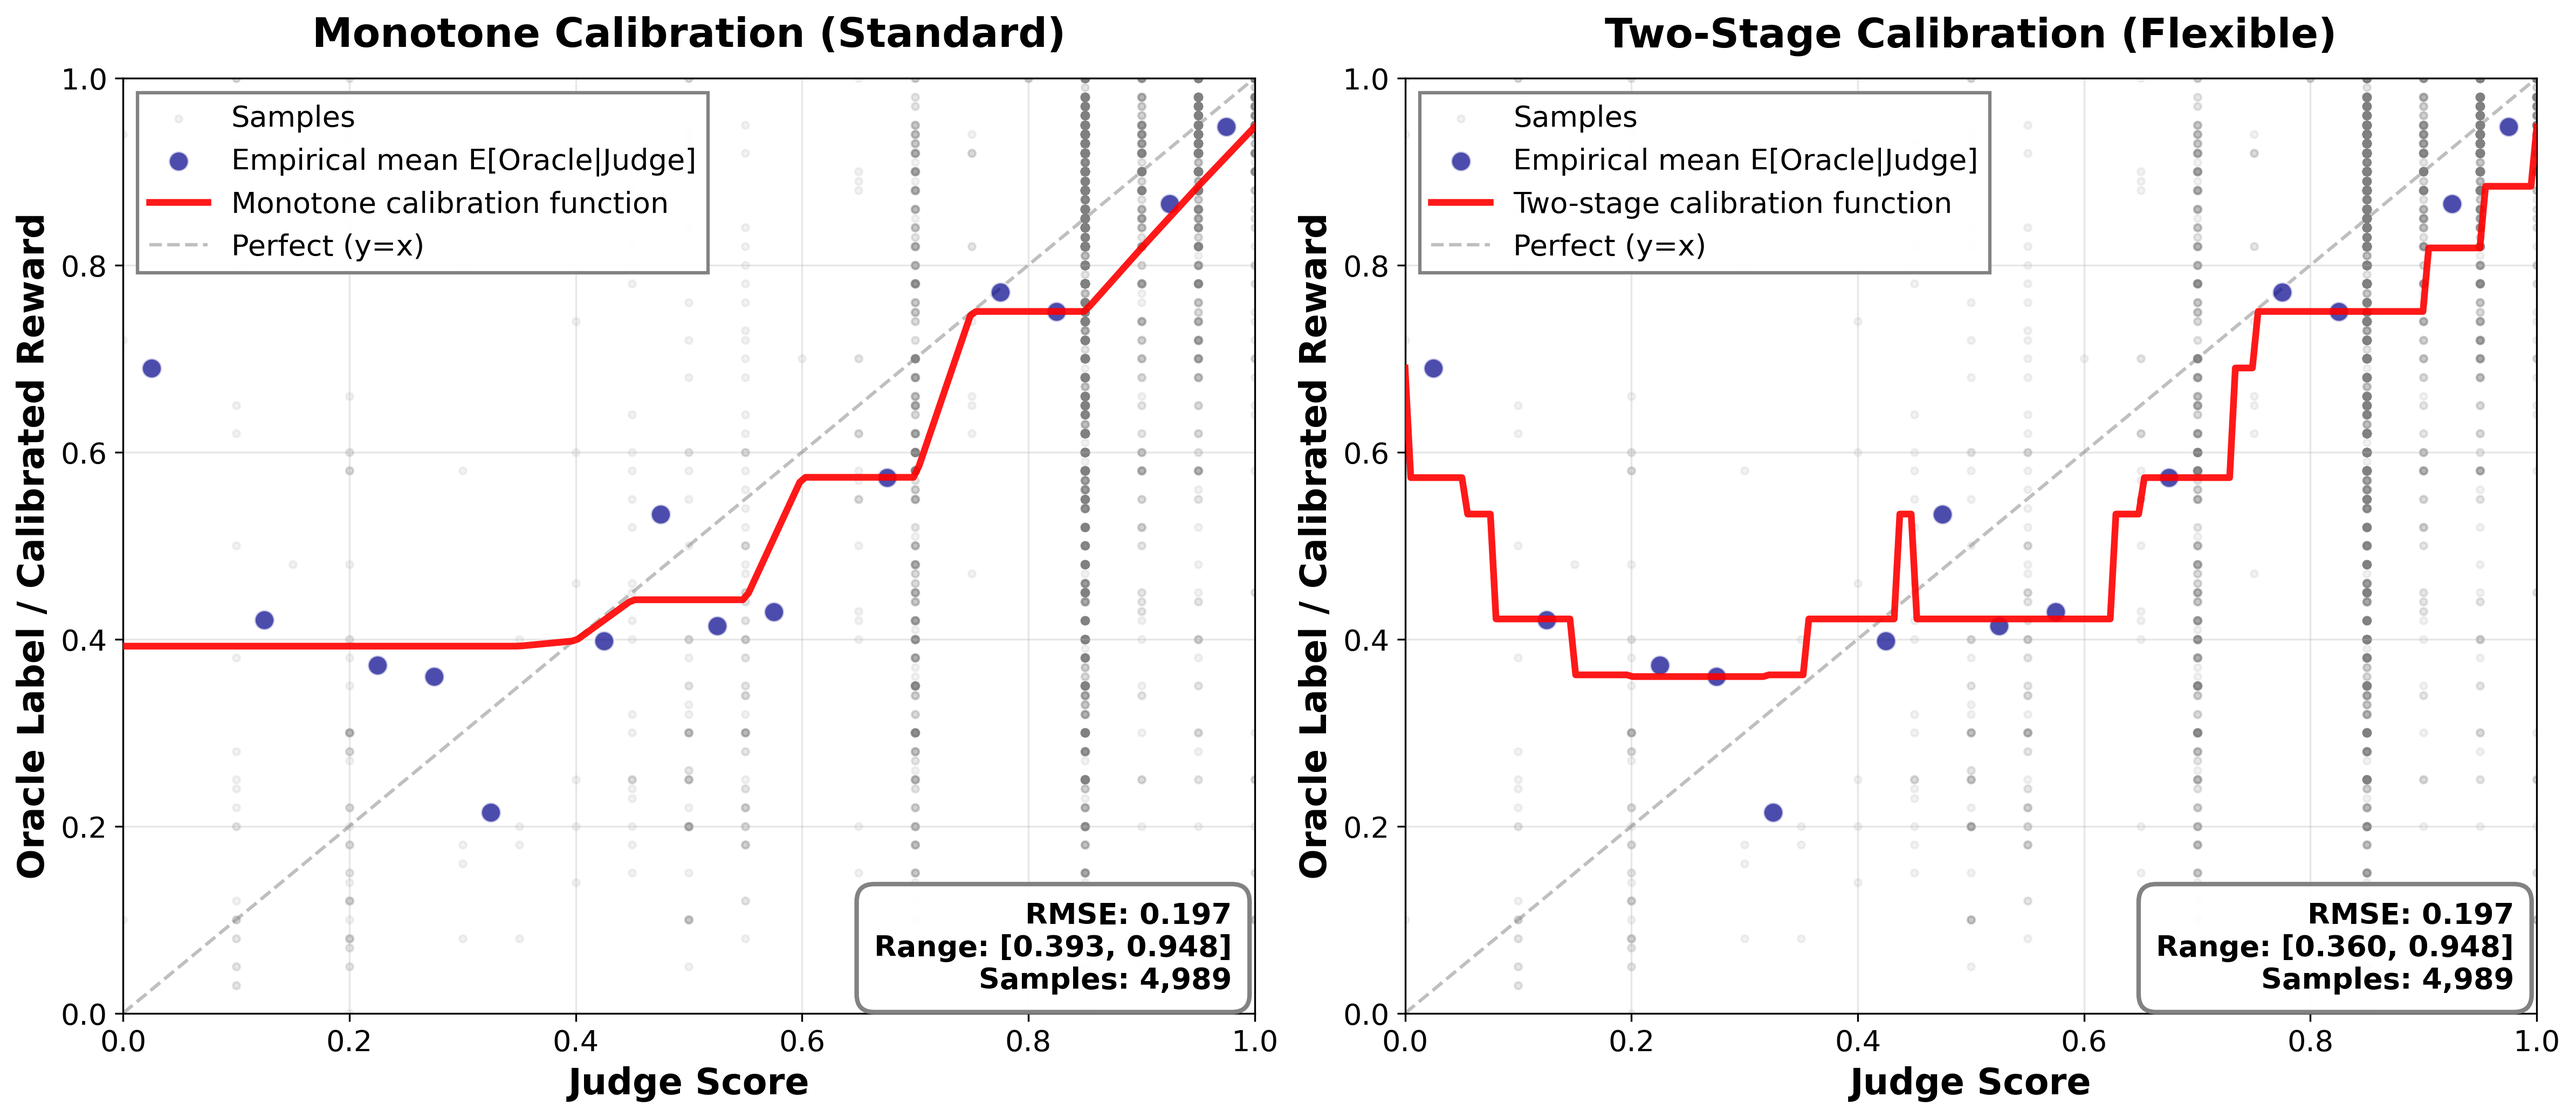
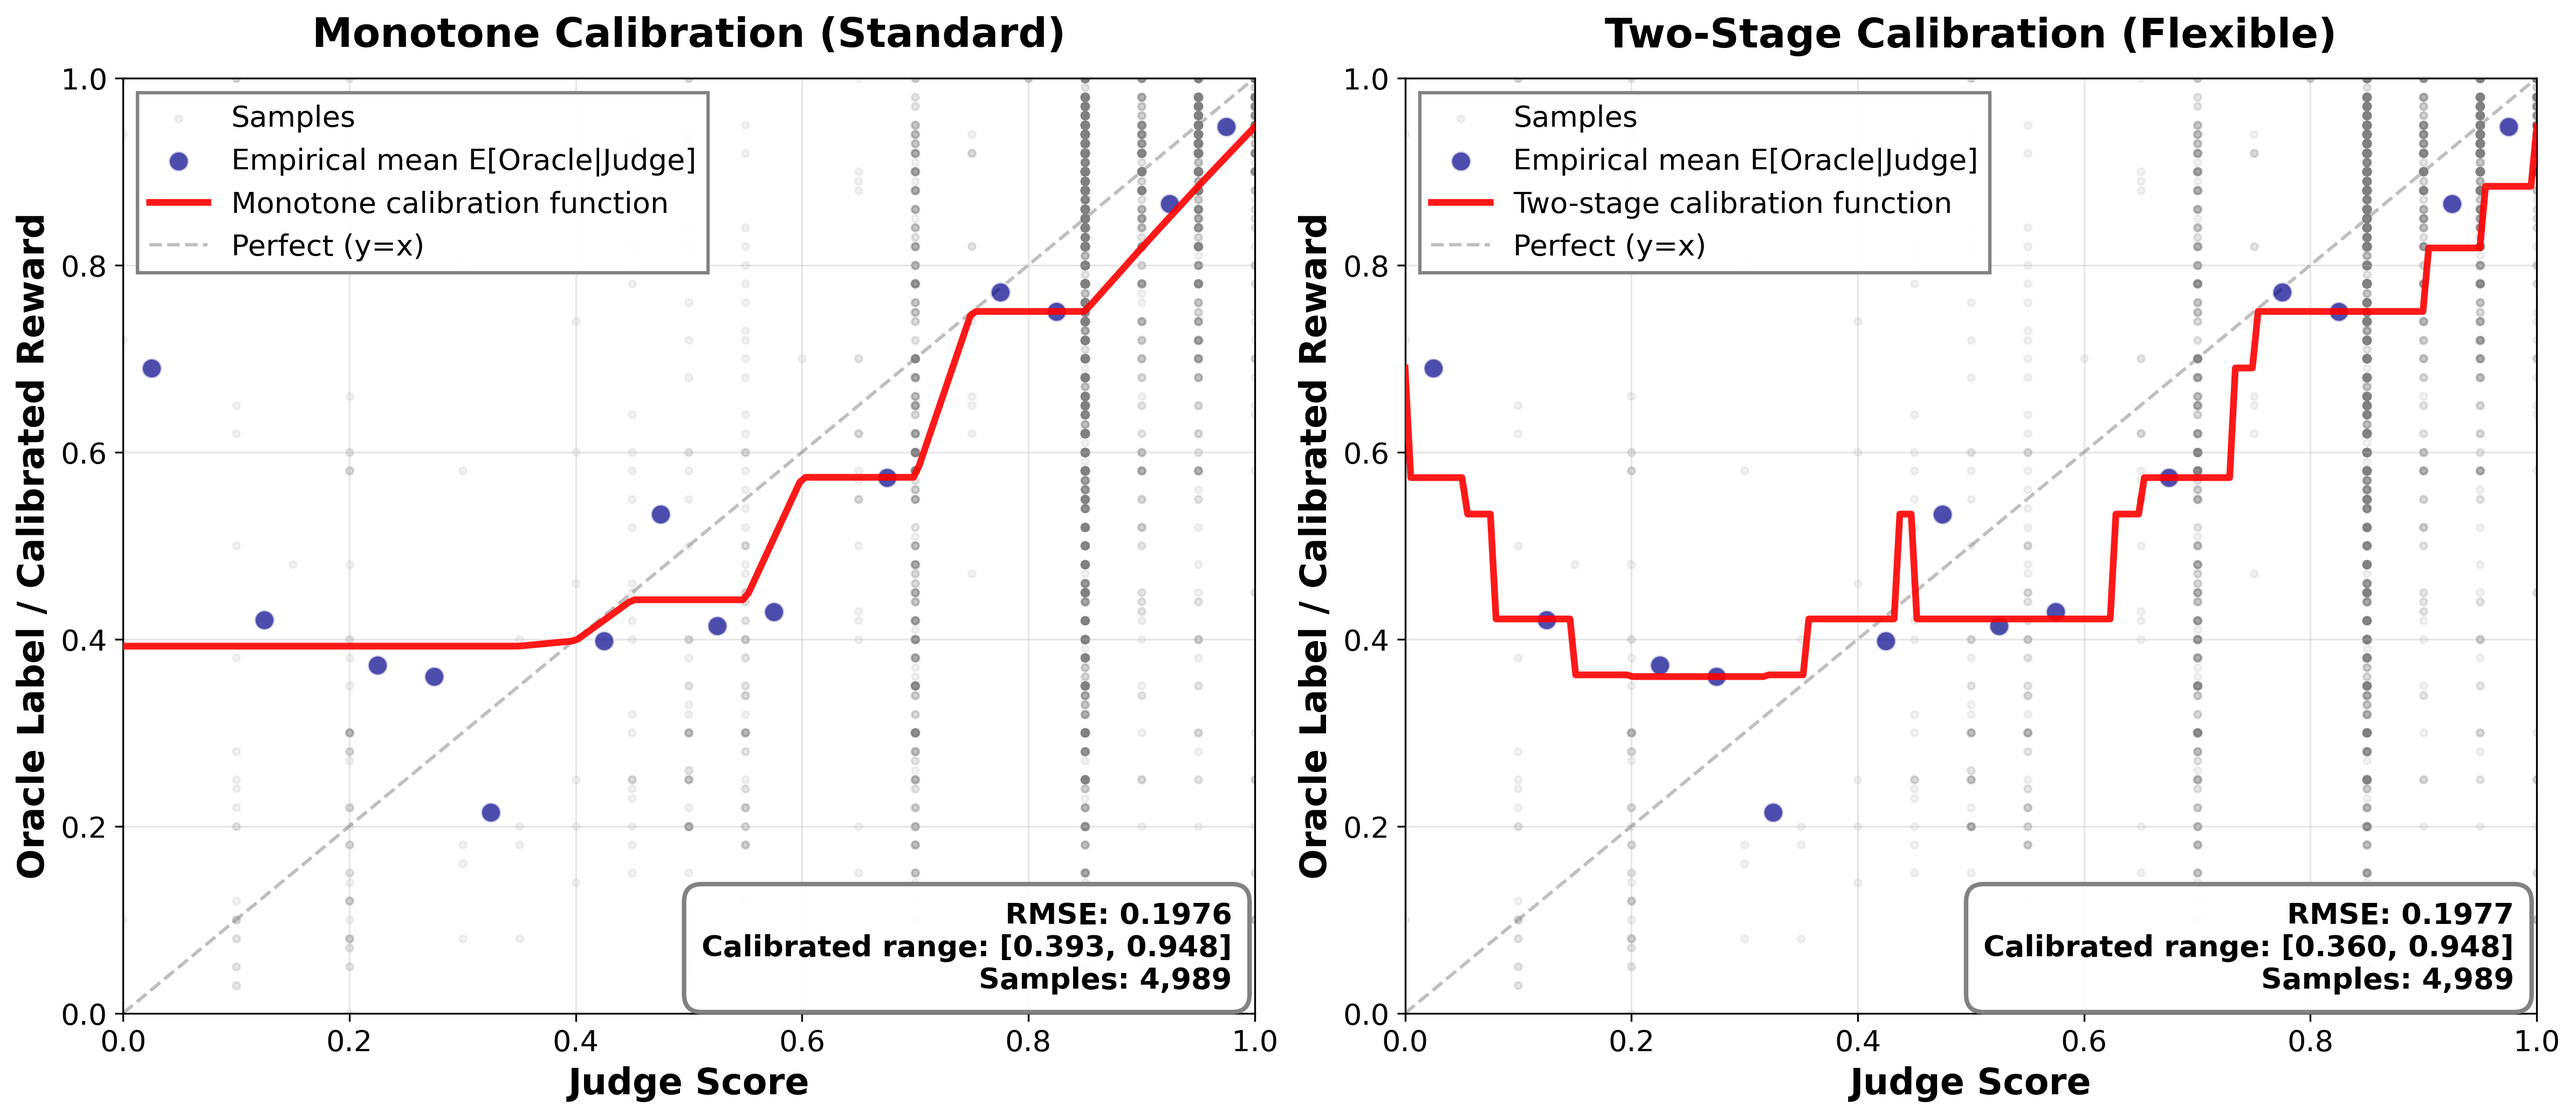
docs(README): Add data source and judge score details for clarity
Enhanced the README by including a subnote about the data source from LMSYS Chatbot Arena and details on judge scores from GPT-4-nano and GPT-5. This addition aims to improve transparency regarding the data used for RMSE calculations and generalization performance.

diff --git a/docs/playbook/generate_two_stage_comparison.py b/docs/playbook/generate_two_stage_comparison.py
@@ -26,8 +26,8 @@ with open(data_path) as f:
 print(f"Loaded {len(samples)} samples")
 
 # Extract judge scores and oracle labels
-judge_scores = []
-oracle_labels = []
+judge_scores_list = []
+oracle_labels_list = []
 
 for sample in samples:
     metadata = sample.get("metadata", {})
@@ -35,30 +35,60 @@ for sample in samples:
     oracle_label = metadata.get("oracle_label")
 
     if judge_score is not None and oracle_label is not None:
-        judge_scores.append(judge_score)
-        oracle_labels.append(oracle_label)
+        judge_scores_list.append(judge_score)
+        oracle_labels_list.append(oracle_label)
 
-judge_scores = np.array(judge_scores)
-oracle_labels = np.array(oracle_labels)
+judge_scores = np.array(judge_scores_list)
+oracle_labels = np.array(oracle_labels_list)
 
 print(f"Found {len(judge_scores)} samples with both judge scores and oracle labels")
 print(f"Judge score range: [{judge_scores.min():.3f}, {judge_scores.max():.3f}]")
 print(f"Oracle label range: [{oracle_labels.min():.3f}, {oracle_labels.max():.3f}]")
 
-# Fit both calibrators
-print("\nFitting monotone calibrator...")
+# Fit both calibrators with cross-validation for OOF RMSE
+print("\nFitting monotone calibrator with 5-fold CV...")
 cal_monotone = JudgeCalibrator(calibration_mode="monotone")
-result_monotone = cal_monotone.fit_transform(judge_scores, oracle_labels)
+result_monotone = cal_monotone.fit_cv(judge_scores, oracle_labels, n_folds=5)
 
-print("Fitting two-stage calibrator...")
+print("Fitting two-stage calibrator with 5-fold CV...")
 cal_two_stage = JudgeCalibrator(calibration_mode="two_stage")
-result_two_stage = cal_two_stage.fit_transform(judge_scores, oracle_labels)
+result_two_stage = cal_two_stage.fit_cv(judge_scores, oracle_labels, n_folds=5)
+
+# Compute RMSEs
+rmse_monotone = np.sqrt(
+    np.mean((oracle_labels - result_monotone.calibrated_scores) ** 2)
+)
+rmse_two_stage = np.sqrt(
+    np.mean((oracle_labels - result_two_stage.calibrated_scores) ** 2)
+)
+
+# Check if predictions differ
+n_different = np.sum(
+    np.abs(result_monotone.calibrated_scores - result_two_stage.calibrated_scores)
+    > 1e-6
+)
+max_diff = np.max(
+    np.abs(result_monotone.calibrated_scores - result_two_stage.calibrated_scores)
+)
+
+# Also check residual distributions
+resid_monotone = oracle_labels - result_monotone.calibrated_scores
+resid_two_stage = oracle_labels - result_two_stage.calibrated_scores
+ss_monotone = np.sum(resid_monotone**2)
+ss_two_stage = np.sum(resid_two_stage**2)
 
 print(
     f"\nMonotone - Calibrated range: [{result_monotone.calibrated_scores.min():.3f}, {result_monotone.calibrated_scores.max():.3f}]"
 )
+print(f"Monotone - In-sample RMSE: {rmse_monotone:.6f}")
+print(f"Monotone - OOF RMSE: {result_monotone.oof_rmse:.6f}")
 print(
     f"Two-stage - Calibrated range: [{result_two_stage.calibrated_scores.min():.3f}, {result_two_stage.calibrated_scores.max():.3f}]"
+)
+print(f"Two-stage - In-sample RMSE: {rmse_two_stage:.6f}")
+print(f"Two-stage - OOF RMSE: {result_two_stage.oof_rmse:.6f}")
+print(
+    f"\nDifferences: {n_different}/{len(judge_scores)} predictions differ (max diff: {max_diff:.6f})"
 )
 
 # Create comparison visualization
@@ -92,7 +122,7 @@ binned_means_valid = np.array(binned_means)[valid_bins]
 
 
 # Function to plot calibration
-def plot_calibration(ax, calibrator, result, title, mode):
+def plot_calibration(ax, calibrator, result, title, mode):  # type: ignore[no-untyped-def]
     # Scatter plot with transparency
     ax.scatter(
         judge_scores, oracle_labels, alpha=0.1, s=10, color="gray", label="Samples"
@@ -128,8 +158,8 @@ def plot_calibration(ax, calibrator, result, title, mode):
     # Plot diagonal reference
     ax.plot([0, 1], [0, 1], "--", color="gray", alpha=0.5, label="Perfect (y=x)")
 
-    # Compute RMSE
-    rmse = np.sqrt(np.mean((oracle_labels - result.calibrated_scores) ** 2))
+    # Use OOF RMSE from result (more honest than in-sample)
+    rmse = result.oof_rmse
 
     # Labels and formatting
     ax.set_xlabel("Judge Score", fontsize=16, fontweight="bold")
@@ -153,8 +183,8 @@ def plot_calibration(ax, calibrator, result, title, mode):
 
     # Add stats box
     stats_text = (
-        f"RMSE: {rmse:.3f}\n"
-        f"Range: [{result.calibrated_scores.min():.3f}, {result.calibrated_scores.max():.3f}]\n"
+        f"RMSE: {rmse:.4f}\n"
+        f"Calibrated range: [{result.calibrated_scores.min():.3f}, {result.calibrated_scores.max():.3f}]\n"
         f"Samples: {len(judge_scores):,}"
     )
     ax.text(

diff --git a/README.md b/README.md
@@ -49,6 +49,8 @@ Learns smooth transformation g(S) → rank → isotonic. Handles non-monotone pa
   <img src="two_stage_comparison.png" alt="Calibration Comparison" width="100%">
 </div>
 
+<sub>*Data from [LMSYS Chatbot Arena](https://huggingface.co/datasets/agie-ai/lmsys-chatbot_arena_conversations). Judge scores from GPT-4-nano, oracle labels from GPT-5. RMSE computed out-of-fold (5-fold CV) for honest generalization performance.*</sub>
+
 **When to use two-stage:**
 - Regional miscalibration (monotone works well at low/high but poorly at mid-range)
 - Length bias (judge gives same score to different-quality responses based on length)
